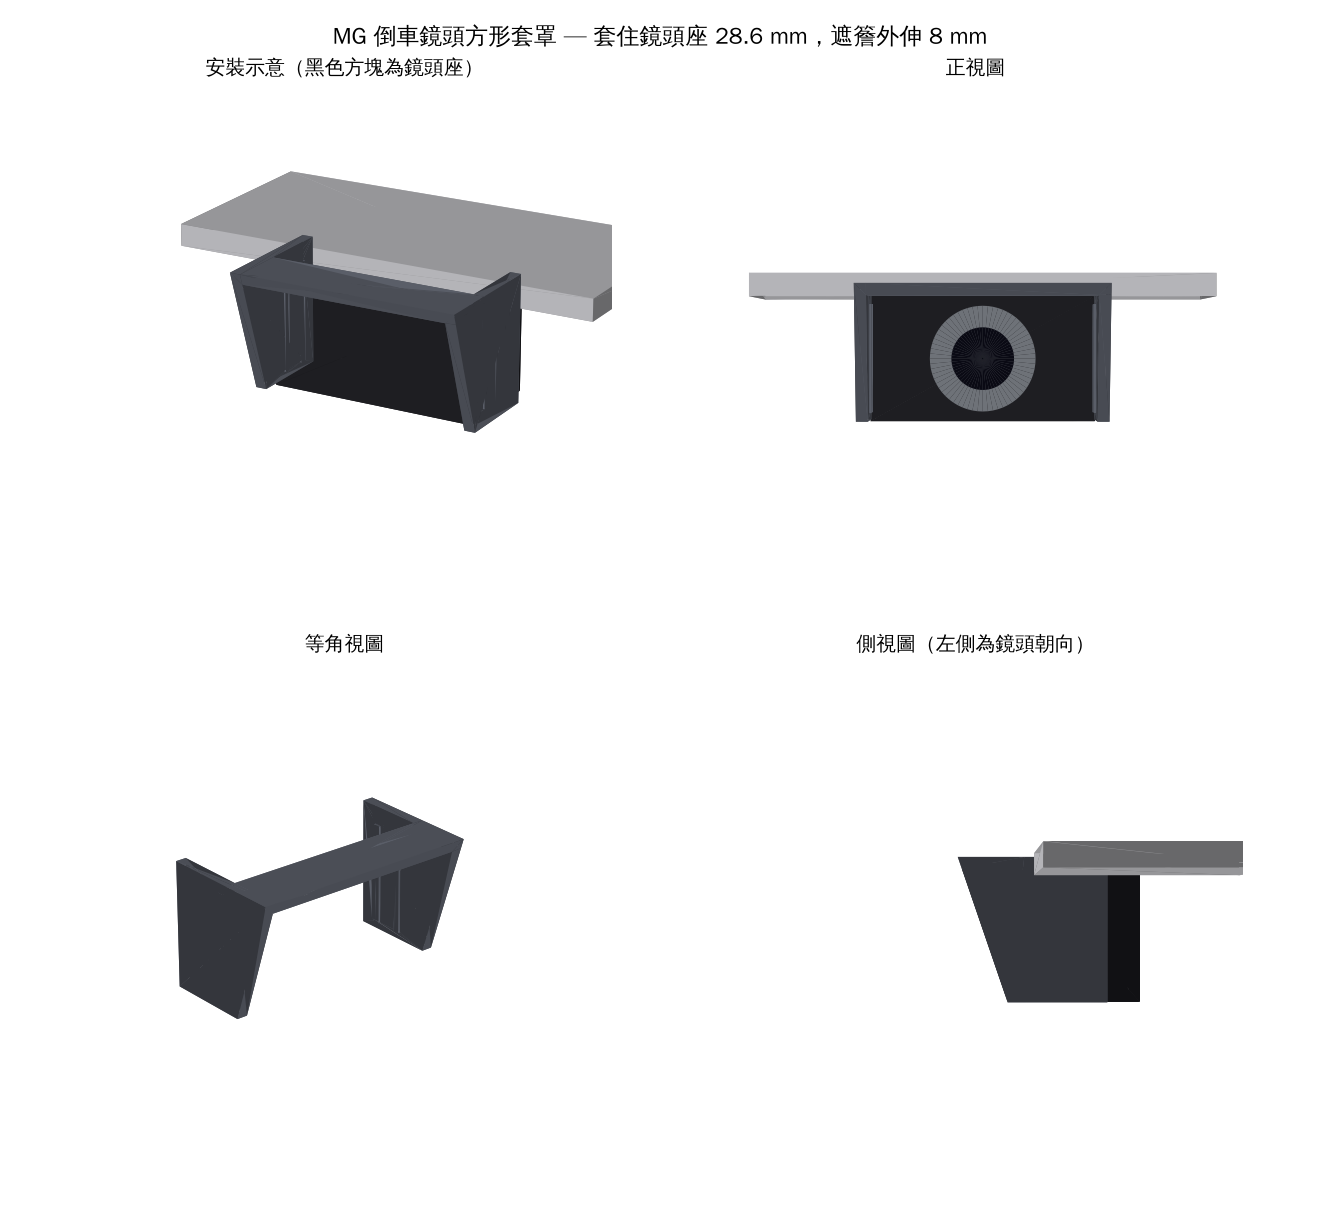
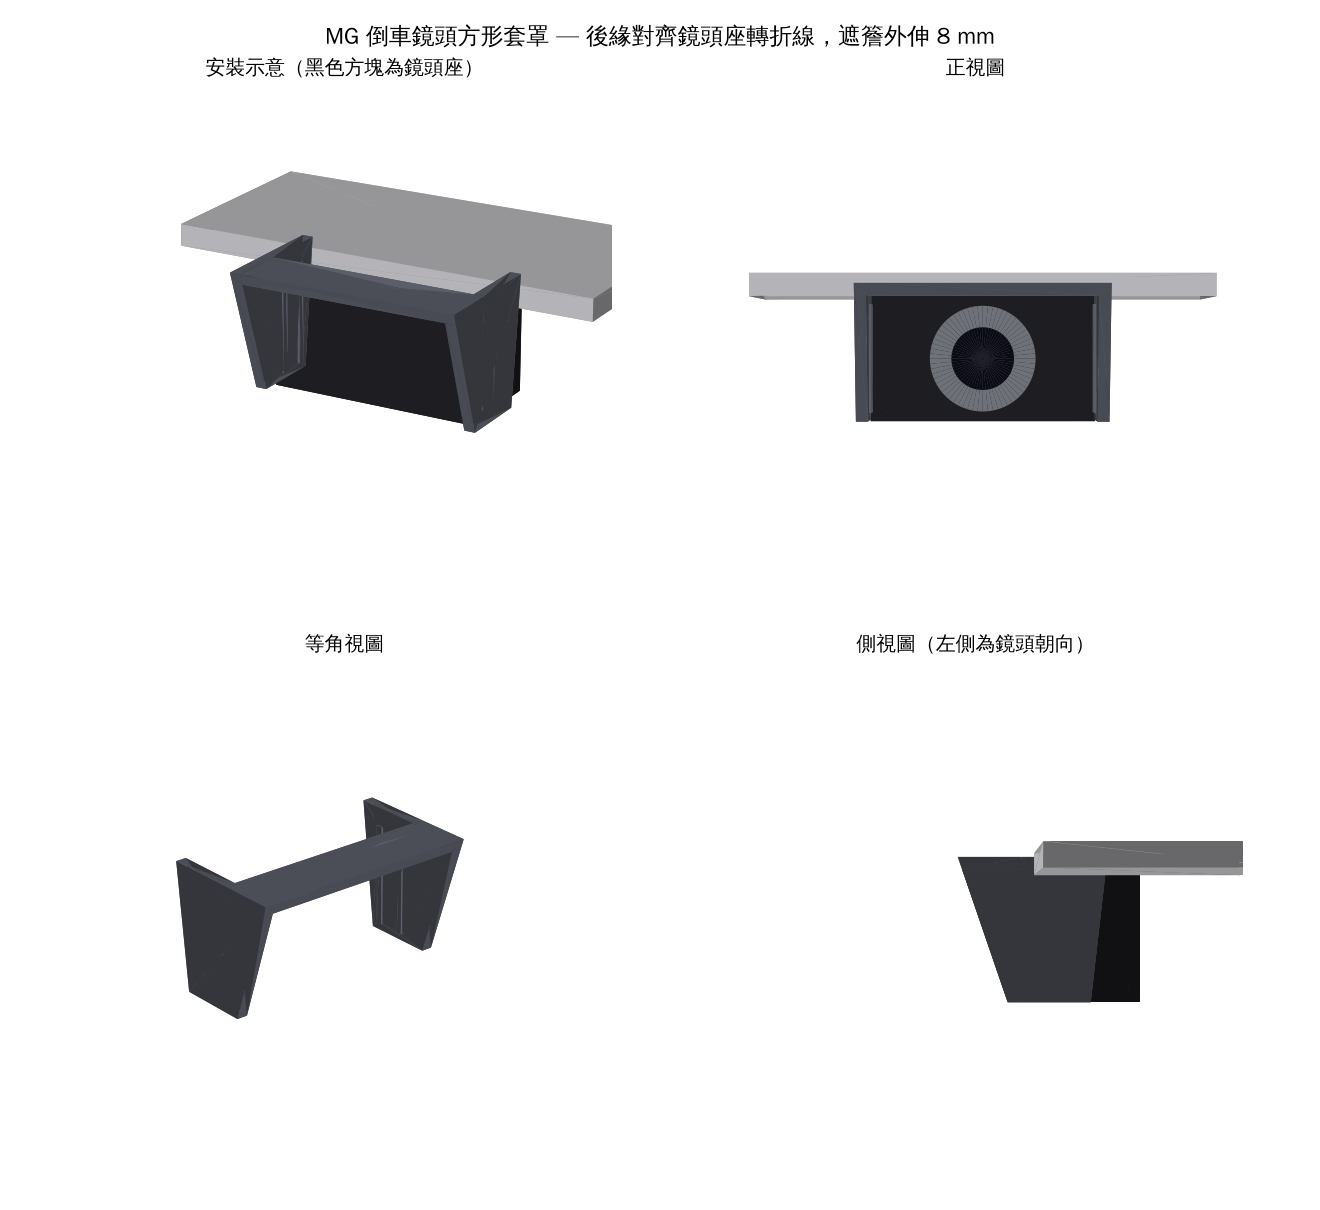
feat: slant hood back edge to sit flush with camera housing contour
Cut the side walls' rear edge along the housing's side break line
(10 mm from the lens face at the top, 8 mm at the bottom) so the walls
no longer overhang the housing's rounded lower corner.

Claude-Session: https://claude.ai/code/session_01VAbsuECctKvMB3nYmxpstd

diff --git a/3d-models/camera_hood.py b/3d-models/camera_hood.py
@@ -5,6 +5,7 @@
 - 兩側側壁夾住鏡頭座（內寬 = 鏡頭座寬 + 間隙），內側有防滑凸條，建議再加雙面膠
 - 鏡頭面之外延伸 EXT，由頂板 + 兩側壁組成方形遮簷
 - 遮簷前緣斜切：上緣伸最長、下緣較短，避免擋到廣角鏡頭下方視野
+- 側壁後緣斜切，對齊鏡頭座側面的轉折線（實車照紅線處），下緣不會懸在圓角外
 座標：鏡頭中心為原點，Y 朝上，Z 為鏡頭朝向，Z=0 為鏡頭面。
 """
 import math
@@ -19,7 +20,8 @@ HOUSING_H = 16.0     # 鏡頭座高 (mm)，估計值，請實測
 CLEAR = 0.3          # 單側間隙 (mm)
 WALL = 1.5           # 側壁厚 (mm)
 TOP = 1.5            # 頂板厚 (mm)
-GRIP = 10.0          # 側壁套住鏡頭座的長度 (mm)，鏡頭座外凸 14 mm
+GRIP_TOP = 10.0      # 側壁後緣上端到鏡頭面的距離 (mm)，對齊紅線，照片估計值
+GRIP_BOTTOM = 8.0    # 側壁後緣下端到鏡頭面的距離 (mm)，對齊紅線，照片估計值
 EXT = 8.0            # 遮簷伸出鏡頭面的長度（上緣）(mm)
 EXT_BOTTOM = 2.0     # 遮簷下緣伸出長度 (mm)
 RIB = 0.3            # 內側防滑凸條高度 (mm)
@@ -29,23 +31,29 @@ def box(x0, x1, y0, y1, z0, z1):
     return Manifold.cube([x1 - x0, y1 - y0, z1 - z0]).translate([x0, y0, z0])
 
 
+def slant_cut(z_bottom, z_top, h, keep_front):
+    """以斜面切除：斜面通過 (y=-h, z=z_bottom) 與 (y=h+TOP, z=z_top)。
+    keep_front=True 時切掉斜面之後（-Z 側），否則切掉斜面之前（+Z 側）。"""
+    ang = math.degrees(math.atan2(z_top - z_bottom, HOUSING_H + TOP))
+    cut = Manifold.cube([200, 200, 200]).translate([-100, -100, 0 if not keep_front else -200])
+    return cut.rotate([ang, 0, 0]).translate([0, -h, z_bottom])
+
+
 def build():
     wi = HOUSING_W / 2 + CLEAR
     wo = wi + WALL
     h = HOUSING_H / 2
-    walls = box(-wo, -wi, -h, h + TOP, -GRIP, EXT) + box(wi, wo, -h, h + TOP, -GRIP, EXT)
+    back = -max(GRIP_TOP, GRIP_BOTTOM) - 1
+    walls = box(-wo, -wi, -h, h + TOP, back, EXT) + box(wi, wo, -h, h + TOP, back, EXT)
     top = box(-wo, wo, h, h + TOP, 0, EXT)
     body = walls + top
-    # 防滑凸條：兩側內壁各兩條直立凸條
-    for z in (-7.0, -3.0):
+    # 防滑凸條：兩側內壁各兩條直立凸條，放在後緣與鏡頭面之間
+    for z in (-min(GRIP_TOP, GRIP_BOTTOM) + 1.5, -2.5):
         for x0, x1 in ((-wi, -wi + RIB), (wi - RIB, wi)):
             body = body + box(x0, x1, -h + 1, h - 1, z - 0.5, z + 0.5)
-    # 前緣斜切：上緣伸 EXT、下緣伸 EXT_BOTTOM
-    span = HOUSING_H + TOP
-    cut = Manifold.cube([200, 200, 200]).translate([-100, 0, 0])
-    ang = math.degrees(math.atan2(EXT - EXT_BOTTOM, span))
-    cut = cut.translate([0, -100, 0]).rotate([ang, 0, 0]).translate([0, -h, EXT_BOTTOM])
-    return body - cut
+    # 前緣斜切（上緣伸 EXT、下緣伸 EXT_BOTTOM）與後緣斜切（對齊紅線）
+    body = body - slant_cut(EXT_BOTTOM, EXT, h, keep_front=False)
+    return body - slant_cut(-GRIP_BOTTOM, -GRIP_TOP, h, keep_front=True)
 
 
 if __name__ == "__main__":
